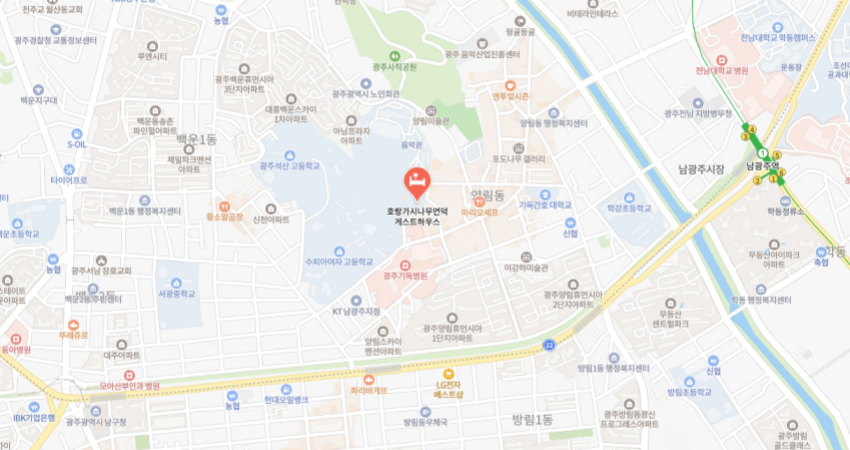
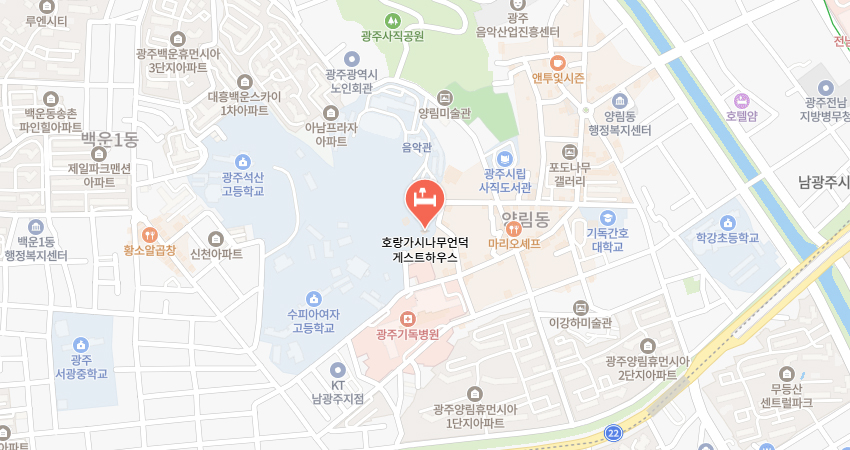
241227

diff --git a/guestHouse/styles/index.css b/guestHouse/styles/index.css
@@ -1,12 +1,13 @@
 #wrap {}
 /* ============================================================== header */
-#wrap header {background-color: turquoise;
+#wrap header {
     margin:0 auto; height:500px;
     padding:28px 80px;
+    background:url(../images/header.jpg);
 }
 
 #wrap header > * {color:#fff;}
-#wrap header .top {background-color: violet;
+#wrap header .top {
     display:flex; flex-flow:row nowrap;
     justify-content:space-between; align-items:center;
 }
@@ -20,8 +21,7 @@
 #wrap header .title h1 {font-weight:200; font-size:4.06rem; letter-spacing:-0.02em; margin:90px 0 15px;}
 #wrap header .title h2 {font-weight:500; font-size:1.88rem;}
 /* ============================================================== main 공통선택자 */
-#wrap main {background-color: blanchedalmond;
-    width:1260px; margin:0 auto; text-align:center;}
+#wrap main {width:1260px; margin:0 auto;text-align:center;}
 #wrap main > * {margin-bottom:180px;}
 #wrap main h2 {font-weight:600; font-size:1.88rem; margin-bottom:15px;}
 #wrap main p {font-size:1.06rem; line-height:1.4; letter-spacing:-0.02em; margin-bottom:55px;}
@@ -37,43 +37,114 @@
 #wrap main .guesthouse h2 {}
 #wrap main .guesthouse p {}
 #wrap main .guesthouse .room {display:flex; flex-flow:row nowrap; justify-content:space-between;}
-#wrap main .guesthouse .room .info {background-color:springgreen;
-    width:625px; height:380px; padding:70px 56px;
-    text-align:left;
+#wrap main .guesthouse .room .info {
+    background-color:#eeeeee;
+    width:625px; height:380px; padding:70px 56px; text-align:left;
 }
-#wrap main .guesthouse .room .info h3 {font-weight:600; font-size:1.63rem; letter-spacing:-0.02em;}
-#wrap main .guesthouse .room .info .room_type {font-size:1.06ren;}
+#wrap main .guesthouse .room .info h3 {font-weight:600; font-size:1.63rem; letter-spacing:-0.02em; margin-bottom:10px;}
+#wrap main .guesthouse .room .info .room_type {font-size:1.06rem; margin-bottom:30px;}
 #wrap main .guesthouse .room .info .explain {font-size:1.06rem; line-height:1.4; letter-spacing:-0.02em;}
-#wrap main .guesthouse .room #btnGr {}
-#wrap main .guesthouse .room #btnGr #reservaion {}
-#wrap main .guesthouse .room #btnGr #more {}
-#wrap main .guesthouse .room > p {background-color: tomato;
-    width:625px; height:380px;
+#wrap main .guesthouse .room .btn {margin-top:70px;}
+#wrap main .guesthouse .room .btn .reservation {
+    background-color:#606060; color:#fff; border-radius:5px;
+    padding:8px 18px;
 }
+#wrap main .guesthouse .room .btn .more {
+    border:1px solid #000; border-radius:5px;
+    padding:8px 18px; margin-left:8px;
+}
+#wrap main .guesthouse .room > p {width:625px; height:380px;}
 #wrap main .guesthouse .room p img {}
 /* ============================================================== main-guest*/
-#wrap main .guesthouse .standard {}
+#wrap main .guesthouse .standard {margin-bottom:10px;}
 #wrap main .guesthouse .standard .info {}
 #wrap main .guesthouse .standard .info h3 {}
 #wrap main .guesthouse .standard .info .room_type {}
 #wrap main .guesthouse .standard .info .explain {}
-#wrap main .guesthouse .standard .info #btnGr {}
-#wrap main .guesthouse .standard .info #btnGr #reservaion {}
-#wrap main .guesthouse .standard .info #btnGr #more {}
-#wrap main .guesthouse .standard > p {}
+#wrap main .guesthouse .standard .info .btn {}
+#wrap main .guesthouse .standard .info .btn .reservation {}
+#wrap main .guesthouse .standard .info .btn .more {}
+#wrap main .guesthouse .standard > p {margin:0px;}
 #wrap main .guesthouse .standard > p img {}
 #wrap main .guesthouse .vip {}
 #wrap main .guesthouse .vip .info {}
 #wrap main .guesthouse .vip .info h3 {}
 #wrap main .guesthouse .vip .info .room_type {}
 #wrap main .guesthouse .vip .info .explain {}
-#wrap main .guesthouse .vip #btnGr {}
-#wrap main .guesthouse .vip #btnGr #reservaion {}
-#wrap main .guesthouse .vip #btnGr #more {}
+#wrap main .guesthouse .vip .btn {}
+#wrap main .guesthouse .vip .btn .reservation {}
+#wrap main .guesthouse .vip .btn .more {}
 #wrap main .guesthouse .vip > p {}
 #wrap main .guesthouse .vip > p img {}
-/* ============================================================== main-travel*/
+/* ============================================================== main-travel 공통선택자*/
 #wrap main .travels {}
+#wrap main .travels h2 {}
+#wrap main .travels a {margin:23px 0 15px; float:right; display:flex;}
+#wrap main .travels a img {margin-left:8px;}
+#wrap main .travels .contents {
+    width:100%; 
+    display:flex; flex-flow:row nowrap; justify-content:space-between;
+}
+#wrap main .travels .contents {text-align:left;}
+#wrap main .travels .contents span {}
+#wrap main .travels .contents span img {}
+#wrap main .travels .contents h4 {
+    background:url(../images/line.png) no-repeat;
+    font-weight:600; font-size:1.3rem; letter-spacing:-0.02em; 
+    margin:20px 0 10px; padding-left:15px;
+}
+#wrap main .travels .contents p {font-size:1.06rem; line-height:1.4; letter-spacing:-0.02em;}
+/* ============================================================== main-travel 개별선택자*/
+#wrap main .travels .contents .spot1
+#wrap main .travels .contents .spot1 span {}
+#wrap main .travels .contents .spot1 span img {}
+#wrap main .travels .contents .spot1 h4 {}
+#wrap main .travels .contents .spot1 p {}
+#wrap main .travels .contents .spot2 {}
+#wrap main .travels .contents .spot2 span {}
+#wrap main .travels .contents .spot2 span img {}
+#wrap main .travels .contents .spot2 h4 {}
+#wrap main .travels .contents .spot2 p {}
+#wrap main .travels .contents .spot3 {}
+#wrap main .travels .contents .spot3 span {}
+#wrap main .travels .contents .spot3 span img {}
+#wrap main .travels .contents .spot3 h4 {}
+#wrap main .travels .contents .spot3 p {}
 /* ============================================================== main-location*/
-#wrap main .location {}
+#wrap main .location {width:850px; margin:0 auto;}
+#wrap main .location h2 {margin-bottom:55px;}
+#wrap main .location span {}
+#wrap main .location span img {}
+#wrap main .location .address {
+    margin-top:30px; text-align:left;
+    display:flex; flex-flow:row nowrap; justify-content:space-between;
+}
+#wrap main .location .address .left {}
+#wrap main .location .address .left p {font-weight:700; font-size:1.06rem; letter-spacing:-0.02em; margin-bottom:20px;}
+#wrap main .location .address .left a {
+    background-color:#606060; color:#fff; border-radius:5px;
+    padding:8px 18px; font-weight:600; font-size:1.06rem;
+}
+#wrap main .location .address .right {border-left:2px solid #d9d9d9; padding-left:33px; height:292px;}
+#wrap main .location .address .right .bus {}
+#wrap main .location .address .right .bus h4 {font-weight:600; font-size:1.06rem; line-height:1.4; letter-spacing:-0.02em; margin-bottom:20px;}
+#wrap main .location .address .right .bus p {font-size:0.88rem; letter-spacing:-0.02em; line-height:1.6; margin-top:20px; margin:20px 0 15px;}
+#wrap main .location .address .right .bus p em {font-weight:600; font-size:0.88rem; letter-spacing:-0.02em; line-height:1.6;}
+#wrap main .location .address .right .subway {margin-top:50px;}
+#wrap main .location .address .right .subway h4 {font-weight:600; font-size:1.06rem; line-height:1.4; letter-spacing:-0.02em;}
+#wrap main .location .address .right .subway p {font-size:0.88rem; letter-spacing:-0.02em; line-height:1.6; margin-top:20px;}
+#wrap main .location .address .right .subway p em {font-weight:600; font-size:0.88rem; letter-spacing:-0.02em; line-height:1.6;}
 /* ============================================================== footer */
+#wrap footer {
+    height:360px; padding:46px 104px ; margin-top:200px;
+    background-color:#eeeeee;
+}
+#wrap footer .row1 {display:flex; flex-flow:row nowrap; margin-bottom:45px;}
+#wrap footer .row1 p {font-size:0.88rem; letter-spacing:-0.02em; margin-right:30px;}
+#wrap footer .row1 p:last-child {margin:0;}
+#wrap footer .row2 {margin-bottom:20px;}
+#wrap footer .row2 p {font-size:0.88rem; letter-spacing:-0.02em; line-height:1.5;}
+#wrap footer .row2 p em {font-weight:600; font-size:0.88rem; letter-spacing:-0.02em; line-height:1.5;}
+#wrap footer .row3 {}
+#wrap footer .row3 p {font-size:0.88rem; letter-spacing:-0.02em; line-height:1.5;}
+#wrap footer .row3 p:last-child {font-size:0.88rem; letter-spacing:-0.02em; margin-top:66px;}

diff --git a/guestHouse/index.html b/guestHouse/index.html
@@ -47,69 +47,92 @@
                         <h3>포사이드</h3>
                         <p class="explain">아늑하고 포근한 느낌이 도는 방으로
                             <br>혼자 숙박하시는데 무리가 없도록 항상 쾌적한 상태를 유지하고 있습니다.</p>
-                        <form action="" id="btnGr">
-                            <button type="button" id="reservation">예약하기</button>
-                            <button type="button" id="more">더보기</button>
-                        </form>
+                        <div class="btn">
+                            <button type="button" class="reservation">예약하기</button>
+                            <button type="button" class="more">더보기</button>
+                        </div>
                     </div>
-                    <p><img src="" alt="standard 포사이드룸"></p>
+                    <p><img src="./images/main_visual6.jpg" alt="standard 포사이드룸"></p>
                 </div>
                 <div class="room vip">
-                    <p><img src="" alt="vip 유수마룸"></p>
+                    <p><img src="./images/main_visual4.jpg" alt="vip 유수마룸"></p>
                     <div class="info">
                         <p class="room_type">VIP</p>
                         <h3>유수마</h3>
                         <p class="explain">호랑가시나무게스트하우스에서 가장 넓은 방으로
                             <br>직접 만든 옷걸이와 아름다운 가구들로 꾸며진 공간입니다.</p>
-                        <form action="" id="btnGr">
-                            <button type="button" id="reservation">예약하기</button>
-                            <button type="button" id="more">더보기</button>
-                        </form>
+                        <div class="btn">
+                            <button type="button" class="reservation">예약하기</button>
+                            <button type="button" class="more">더보기</button>
+                        </div>
                     </div>
                 </div>
             </div>
             <div class="travels">
                 <h2>주변 관광지</h2>
-                <a href="#"><img src="./images/arrow.png" alt="더보기">더보기</a>
-                <div class="spot1">
-                    <h4>양파정</h4>
-                    <p>광주광역시 남구 사동에 있는 일제강점기에 건립된 정자</p>
-                </div>
-                <div class="spot2">
-                    <h4>호랑가시나무</h4>
-                    <p>광주광역시 남구 양림동에 있는 호랑가시나무</p>
-                </div>
-                <div class="spot3">
-                    <h4>우일선 선교사 사택</h4>
-                    <p>광주광역시 남구 양림동에 있는 1920년대에 지어진 주택</p>
+                <a href="#">더보기<img src="./images/arrow.png" alt="더보기"></a>
+                <div class="contents">
+                    <div class="spot1">
+                        <span><img src="./images/t1.jpg" alt="양파정"></span>
+                        <h4>양파정</h4>
+                        <p>광주광역시 남구 사동에 있는 일제강점기에 건립된 정자</span>
+                    </div>
+                    <div class="spot2">
+                        <span><img src="./images/t2.jpg" alt="호랑가시나무"></span>
+                        <h4>호랑가시나무</h4>
+                        <p>광주광역시 남구 양림동에 있는 호랑가시나무</p>
+                    </div>
+                    <div class="spot3">
+                        <span><img src="./images/t3.jpg" alt="우일선 선교사 사택"></span>
+                        <h4>우일선 선교사 사택</h4>
+                        <p>광주광역시 남구 양림동에 있는 1920년대에 지어진 주택</p>
+                    </div>
                 </div>
             </div>
             <div class="location">
                 <h2>찾아오시는길</h2>
-                <p><img src="./images/map_img.jpg" alt="지도"></p>
+                <span><img src="./images/map_img.jpg" alt="지도"></span>
                 <div class="address">
                     <div class="left">
-                        <p><span>광주광역시 남구 제중로47번길 18</span></p>
+                        <p>광주광역시 남구 제중로47번길 18</p>
                         <a href="#">문의하기</a>
                     </div>
                     <div class="right">
                         <div class="bus">
                             <h4>시내버스</h4>
-                            <p><span>기독병원 정류장</span> 하차 (게스트하우스까지 도보 10분)
-                                <br>금남55</p>
-                            <p><span>양림휴먼시아2차 정류장</span> 하차 (게스트하우스까지 도보 30분)
+                            <p><em>기독병원 정류장</em> 하차 (게스트하우스까지 도보 10분)<br>금남55</p>
+                            <p><em>양림휴먼시아2차 정류장</em> 하차 (게스트하우스까지 도보 30분)
                                 <br>순환01, 진원17, 지원25, 봉선27, 문흥48, 금남59, 봉선76, 첨단95, 송정98, 화순217, 화순218</p>
                         </div>
                         <div class="subway">
                             <h4>지하철</h4>
-                            <p><span>남광주역 3번 출구</span>(게스트하우스까지 도보 25분)</p>
-                            <p><span>문화전당역 1, 3번 출구</span>(게스트하우스까지 도보 35분)</p>
+                            <p><em>남광주역 3번 출구</em>(게스트하우스까지 도보 25분)
+                                <br><em>문화전당역 1, 3번 출구</em>(게스트하우스까지 도보 35분)
+                            </p>
                         </div>
                     </div>
                 </div>
             </div>
         </main>
-        <footer></footer>
+        <footer>
+            <div class="row1">
+                <p>개인정보보호정책</p>
+                <p>이용약관</p>
+                <p>사이트맵</p>
+            </div>
+            <div class="row2">
+                <p><em>호랑가시나무언덕 게스트하우스</em>
+                    <br>주소 : 503-822 광주광역시 남구 양림동 230-1
+                    <br>전화 : 062-682-0976   |   휴대전화 : 010-2056-4832   |   팩스 : 062-653-0978
+                </p>
+            </div>
+            <div class="row3">
+                <p>법인(단체명) : (주)아트주   |   대표자 : 정헌기
+                    <br>사업자등록번호 : 408-81-88664   |   통신판매신고번호 : 2015-광주남구-0127   |   사업자 주소 : 광주광역시 남구 제중로 47번길 11(양림동, 2층)
+                </p>
+                <p>ⓒ 호랑가시나무언덕 게스트하우스. All right reserved.</p>
+            </div>
+        </footer>
     </div>
 </body>
 </html>

diff --git a/guestHouse/README.md b/guestHouse/README.md
@@ -15,7 +15,7 @@ semibold 17 (font-weight:600; font-size:1.06rem;) 강조 버튼
 <!-- 관광지 -->
 semibold 20 (font-weight:600; font-size:1.3rem; letter-spacing:-0.02em;) 관광지 타이틀
 <!-- 주소 -->
-bold 17 (font-weight:700; font-size:1.06rem letter-spacing:-0.02em;) 주소 강조
+bold 17 (font-weight:700; font-size:1.06rem; letter-spacing:-0.02em;) 주소 강조
 semibold 14 (font-weight:600; font-size:0.88rem; letter-spacing:-0.02em; line-height:1.6;) 장소 강조
 regular 14 (font-size:0.88rem; letter-spacing:-0.02em; line-height:1.6;) 주소 내용
 <!-- footer -->
